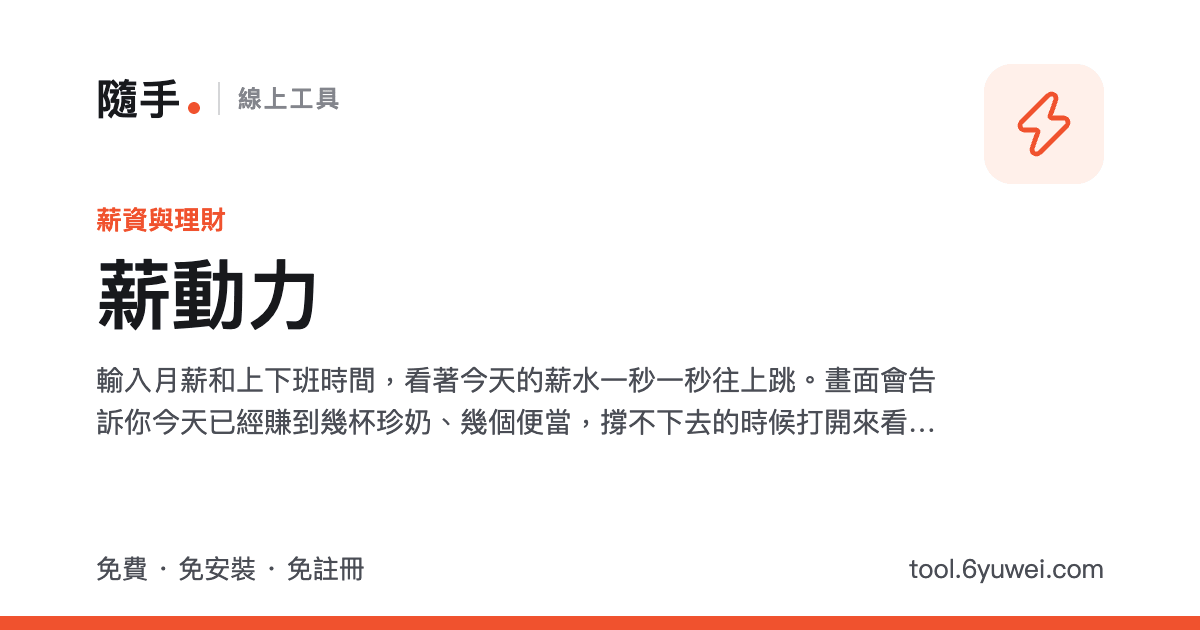
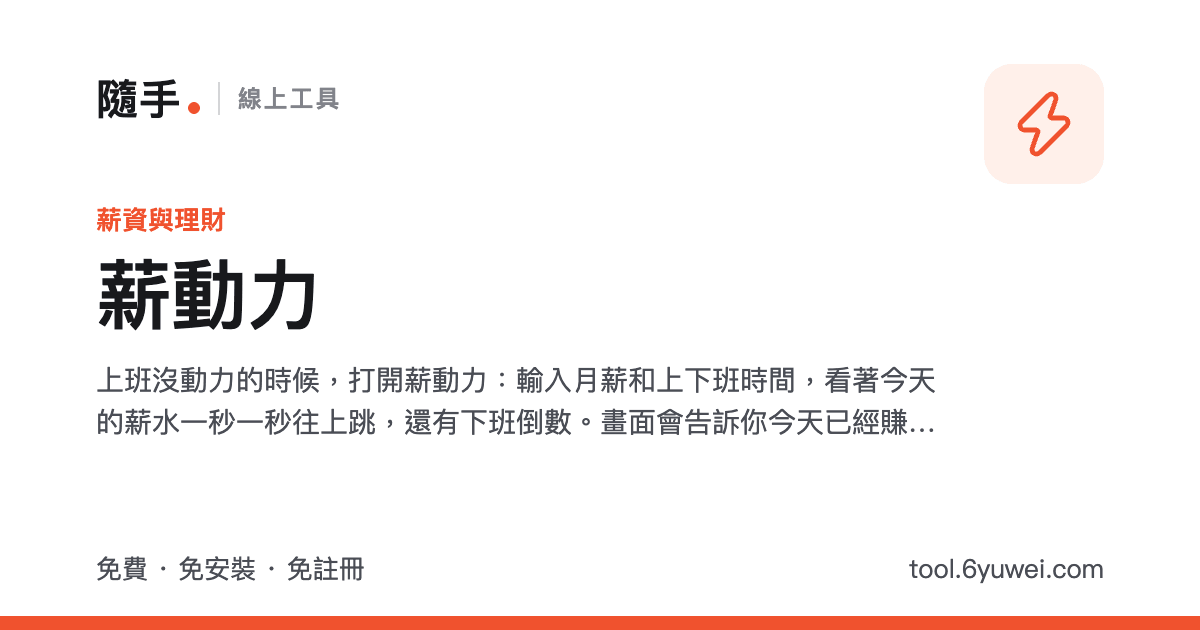
seo(salary-per-second): target work-motivation searches
Put 上班沒動力 / 下班倒數 in the zh title, description and intro,
仕事のやる気 in the ja title, and add motivation and clock-out
countdown FAQs in all three locales.

Changed region(s): [[0.0617, 0.573, 0.8017, 0.6937]]

diff --git a/src/tools/salary-per-second/meta.ts b/src/tools/salary-per-second/meta.ts
@@ -3,27 +3,31 @@ import { defineTool } from '../types';
 export default defineTool({
   slug: 'salary-per-second',
   name: '薪動力',
-  seoTitle: '薪動力：月薪換算日薪、時薪、秒薪，即時看今天賺了多少錢',
+  seoTitle: '薪動力：上班沒動力就看薪水跳！月薪換算秒薪、下班倒數',
   description:
-    '輸入月薪、年薪或時薪，自動換算日薪、時薪與每秒薪水，畫面即時跳動顯示今天已經賺了多少錢，精確到小數點後好幾位。附上班進度條、下班倒數，還會告訴你今天已經賺到幾杯珍奶、幾個便當，幫你找回上班動力。',
+    '上班沒動力？輸入月薪、年薪或時薪，自動換算日薪、時薪與每秒薪水，畫面即時跳動顯示今天已經賺了多少錢。附上班進度條與下班倒數，還會告訴你今天已經賺到幾杯珍奶、幾個便當，幫你找回上班動力。',
   category: 'finance',
   icon: 'Zap',
   keywords: [
     '薪動力',
+    '上班動力',
+    '上班沒動力',
+    '上班提不起勁',
+    '下班倒數計時',
+    '距離下班還有多久',
     '月薪換算日薪',
     '月薪換算時薪',
     '秒薪',
     '每秒薪水',
     '薪水計算',
     '今天賺多少',
-    '上班動力',
     '日薪計算',
     '時薪計算',
     '薪水跳動',
     '下班倒數',
   ],
   intro:
-    '輸入月薪和上下班時間，看著今天的薪水一秒一秒往上跳。畫面會告訴你今天已經賺到幾杯珍奶、幾個便當，撐不下去的時候打開來看一下。',
+    '上班沒動力的時候，打開薪動力：輸入月薪和上下班時間，看著今天的薪水一秒一秒往上跳，還有下班倒數。畫面會告訴你今天已經賺到幾杯珍奶、幾個便當，撐不下去的時候看一下。',
   howTo: [
     '在「薪水與上班時間」選月薪、年薪或時薪，填入金額；幣別預設依網站語言，也可以自己換。',
     '填每月上班天數與上下班時間；勾選「午休不算薪水」並設定午休時段，午休時金額會暫停。',
@@ -39,7 +43,7 @@ export default defineTool({
       ],
     },
     {
-      heading: '為什麼要看薪水一秒一秒跳？',
+      heading: '為什麼看薪水跳動能找回上班動力？',
       body: [
         '月薪是一個很大、很抽象的數字，要等到月底才看得到。把它拆成每秒幾分錢，你會發現回一封信、開一場會、甚至發呆的這一分鐘，帳戶裡其實都在默默進帳。看得見的回饋比遙遠的發薪日更能讓人撐下去，這就是「薪動力」名字的由來：薪水就是上班的新動力。',
         '工具也會把金額換成看得到的東西，例如「你今天已經賺到 3.2 個便當」。它會挑你已經賺得到的最貴那一樣來講，所以不管薪水多少，數字都有感覺；剛上班還不夠買一杯咖啡時，則會告訴你再上班多久就賺到。價格採一般行情的大約值，只是讓數字更有感，不是精確的物價統計。',
@@ -54,6 +58,14 @@ export default defineTool({
     },
   ],
   faq: [
+    {
+      q: '上班沒動力、提不起勁的時候，薪動力能幫上什麼忙？',
+      a: '它把月薪拆成每秒進帳，讓你看見每一分鐘都有回報，再把金額換成「今天已經賺到幾個便當」這種看得到的東西，把遙遠的發薪日變成眼前的小目標。按全螢幕放在副螢幕或手機旁邊，隨時瞄一眼就有動力。',
+    },
+    {
+      q: '可以當下班倒數計時器用嗎？',
+      a: '可以。進度條旁會一直顯示距離下班還有多久，午休時改成午休剩餘時間，下班後則顯示明天幾點上班。',
+    },
     {
       q: '午休時間的錢會繼續跳嗎？',
       a: '勾選「午休不算薪水」時，午休時段金額會暫停，畫面顯示午休剩餘時間；取消勾選則整段上班時間都計薪。',

diff --git a/src/tools/salary-per-second/meta.ja.ts b/src/tools/salary-per-second/meta.ja.ts
@@ -3,13 +3,17 @@ import { defineTool } from '../types';
 export default defineTool({
   slug: 'salary-per-second',
   name: 'やる金メーター',
-  seoTitle: 'やる金メーター：月給から日給・時給・秒給を計算、今日の稼ぎをリアルタイム表示',
+  seoTitle: 'やる金メーター：仕事のやる気が出る給料カウンター｜秒給・日給・時給を計算',
   description:
-    '月給・年収・時給を入れると、日給・時給・1秒あたりの給料を計算し、今日これまでに稼いだ金額を小数点以下まで動くカウンターで表示します。定時までの残り時間と進み具合、今日の稼ぎがランチ何回分かといった換算で仕事のやる気を応援します。',
+    '仕事のやる気が出ないときに。月給・年収・時給を入れると、日給・時給・1秒あたりの給料を計算し、今日これまでに稼いだ金額を小数点以下まで動くカウンターで表示します。定時までの残り時間と進み具合、今日の稼ぎがランチ何回分かといった換算で仕事のやる気を応援します。',
   category: 'finance',
   icon: 'Zap',
   keywords: [
     'やる金メーター',
+    '仕事 やる気 出ない',
+    '仕事 モチベーション',
+    '定時まであと何分',
+    '給料 カウンター',
     '秒給',
     '1秒あたりの給料',
     '月給 日給 計算',
@@ -37,7 +41,7 @@ export default defineTool({
       ],
     },
     {
-      heading: 'なぜ「やる金」なのか',
+      heading: '給料が増えるのを見るとやる気が出る理由',
       body: [
         '月給は月に一度しか見えない大きな数字です。1秒あたりに分けてみると、メールを1通返す間も、会議の間も、ぼんやりしている今この瞬間も、お給料は少しずつ増えています。目に見える手応えは、遠い給料日よりもずっとやる気につながります。やる気ならぬ「やる金」です。',
         '金額は身近なものにも換算されます。たとえば「今日はもうランチ 3.2回分を稼ぎました」のように、すでに稼いだ金額で買えるいちばん高いものを選んで表示するので、給料がいくらでも実感がわきます。まだコーヒー1杯分にも届かないうちは、あと何分働けば届くかを表示します。価格は一般的なおおよその目安です。',
@@ -52,6 +56,14 @@ export default defineTool({
     },
   ],
   faq: [
+    {
+      q: '仕事のやる気が出ないとき、どう役立ちますか？',
+      a: '月給を1秒ごとの稼ぎに分けて見せるので、1分働くごとに手応えがあります。金額はランチやライブ何回分にも換算されるので、遠い給料日が目の前の小さな目標に変わります。全画面にしてサブモニターやスマホに置き、疲れたときに眺めてください。',
+    },
+    {
+      q: '定時までのカウントダウンとして使えますか？',
+      a: '使えます。バーの横に定時までの残り時間を常に表示します。昼休み中は昼休みの残り時間、終業後は翌日の始業時刻を表示します。',
+    },
     {
       q: '昼休みの間も金額は増えますか？',
       a: '「昼休みは無給」にチェックしていれば、昼休み中はカウントが止まり、昼休みの残り時間を表示します。チェックを外すと勤務時間全体で計算します。',

diff --git a/src/tools/salary-per-second/meta.en.ts b/src/tools/salary-per-second/meta.en.ts
@@ -17,6 +17,9 @@ export default defineTool({
     'annual salary to daily pay',
     'paycheck calculator live',
     'work motivation',
+    'motivation to work',
+    'countdown to end of work day',
+    'how long until i get off work',
     'money earned today',
     'salary per minute',
   ],
@@ -37,7 +40,7 @@ export default defineTool({
       ],
     },
     {
-      heading: 'Why watch your pay tick up?',
+      heading: 'Why watching your pay boosts work motivation',
       body: [
         'A salary is a big, abstract number that shows up once or twice a month. Broken down into cents per second, it becomes visible: every email, every meeting and even this minute of staring at the wall is quietly paying you. Feedback you can see is far more motivating than a distant payday.',
         'The meter also turns the number into things you can picture, such as “You have already earned 3.2 lunches today”. It names the priciest item your pay already covers, so the count feels real at any salary. Early in the day, before you have earned even a coffee, it tells you how much longer that takes. Prices are rough everyday averages, not exact price data.',
@@ -52,6 +55,14 @@ export default defineTool({
     },
   ],
   faq: [
+    {
+      q: 'How does this help when I have no motivation to work?',
+      a: 'It breaks your salary into money earned every second, so each minute of work shows a visible reward. It also turns the total into things like lunches and concert tickets, which makes payday feel close. Put it in full screen on a second screen or a phone and glance at it when the day drags.',
+    },
+    {
+      q: 'Can I use it as a countdown to the end of the workday?',
+      a: 'Yes. The time left until clock-out is always shown next to the progress bar. During lunch it shows the time left in the break, and after work it shows when tomorrow’s shift starts.',
+    },
     {
       q: 'Does the counter keep going during lunch?',
       a: 'Not if “Unpaid lunch break” is ticked. The amount pauses and the screen shows how long the break has left. Untick it to count the whole day.',
